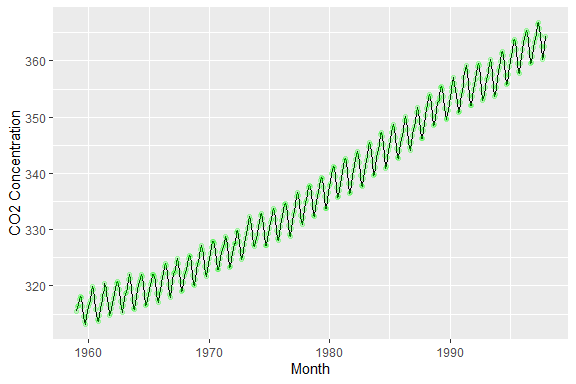
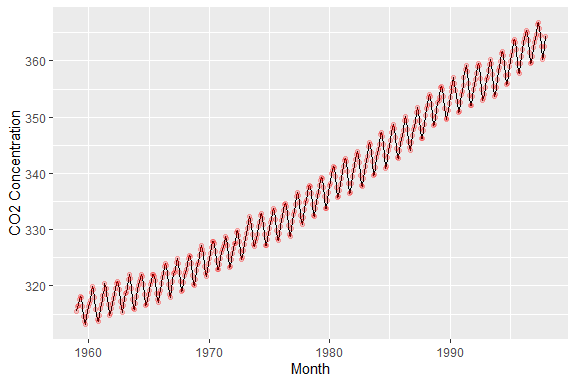
update

Changed region(s): [[0.125, 0.0625, 0.9688, 0.8438]]

diff --git a/cm005/cm005_exercise.html b/cm005/cm005_exercise.html
@@ -390,9 +390,6 @@ summary {
 </div>
 
 
-<div id="preliminary" class="section level2">
-<h2>Preliminary</h2>
-<p>Begin by loading the required packages. If you don’t have these installed (or don’t know whether you have them installed), you can install them by executing the following code in your console:</p>
 <pre><code>install.packages(&quot;tidyverse&quot;)
 install.packages(&quot;scales&quot;)
 install.packages(&quot;tsibble&quot;)</code></pre>
@@ -403,7 +400,6 @@ suppressPackageStartupMessages(library(scales))
 suppressPackageStartupMessages(library(tsibble))
 knitr::opts_chunk$set(fig.align = &quot;center&quot;)</code></pre>
 <!---The following chunk allows errors when knitting--->
-</div>
 <div id="exercise-1-bar-chart-grammar-together" class="section level2">
 <h2>Exercise 1: Bar Chart Grammar (Together)</h2>
 <p>Consider the following plot. Don’t concern yourself with the code at this point.</p>
@@ -544,15 +540,16 @@ knitr::opts_chunk$set(fig.align = &quot;center&quot;)</code></pre>
   xlab(&quot;Month&quot;) +
   ylab(&quot;CO2 Concentration&quot;)
 p +
-  geom_point(colour = &quot;green&quot;, alpha = 0.2)</code></pre>
[1 lines of base64/hex data omitted]
+  geom_point(colour = &quot;red&quot;, alpha = 0.2)</code></pre>
[1 lines of base64/hex data omitted]
 </div>
 <div id="d" class="section level3">
 <h3>2(d)</h3>
 <p>What’s wrong with the following code? Fix it.</p>
 <pre class="r"><code>ggplot(gapminder) +
-  geom_point(aes(x = gdpPercap, y = lifeExp), alpha = 0.1)</code></pre>
[1 lines of base64/hex data omitted]
+  geom_point(aes(x = gdpPercap, y = lifeExp), alpha = 0.1, color = &quot;red&quot;)</code></pre>
[1 lines of base64/hex data omitted]
+<p><strong># This is where we ended class</strong></p>
 </div>
 <div id="e-bonus" class="section level3">
 <h3>2(e) BONUS</h3>

diff --git a/cm005/cm005_exercise.md b/cm005/cm005_exercise.md
@@ -6,10 +6,6 @@ output:
     theme: paper
 ---
 
-## Preliminary
-
-Begin by loading the required packages. If you don't have these installed (or don't know whether you have them installed), you can install them by executing the following code in your console:
-
 ```
 install.packages("tidyverse")
 install.packages("scales")
@@ -144,7 +140,7 @@ p <- ggplot(mauna, aes(month, conc)) +
   xlab("Month") +
   ylab("CO2 Concentration")
 p +
-  geom_point(colour = "green", alpha = 0.2)
+  geom_point(colour = "red", alpha = 0.2)
 ```
 
 <img src="cm005_exercise_files/figure-html/unnamed-chunk-5-1.png" style="display: block; margin: auto;" />
@@ -156,10 +152,14 @@ What's wrong with the following code? Fix it.
 
 ```r
 ggplot(gapminder) +
-  geom_point(aes(x = gdpPercap, y = lifeExp), alpha = 0.1)
+  geom_point(aes(x = gdpPercap, y = lifeExp), alpha = 0.1, color = "red")
 ```
 
 <img src="cm005_exercise_files/figure-html/unnamed-chunk-6-1.png" style="display: block; margin: auto;" />
+
+
+__# This is where we ended class__
+
 
 
 ### 2(e) BONUS
